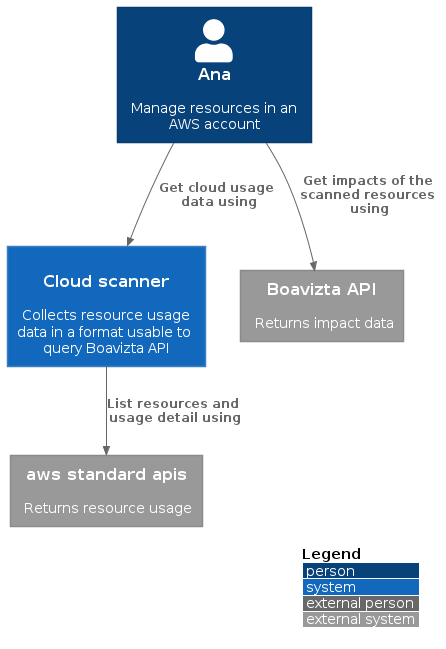
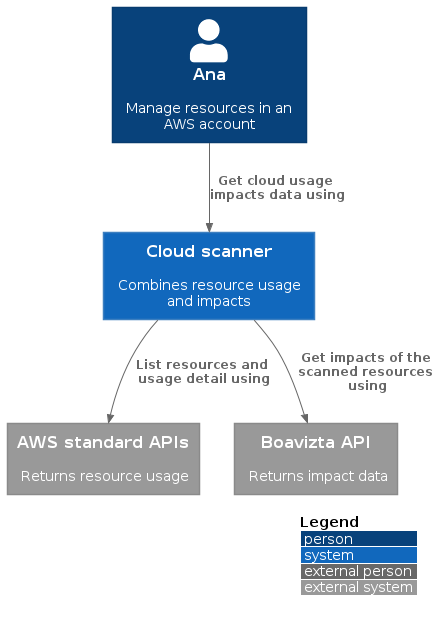
docs: update diagram

Changed region(s): [[0.0, 0.0, 0.9662, 0.8314], [0.527, 0.6467, 0.9369, 0.9854], [0.6441, 0.6159, 0.6734, 0.6467]]

diff --git a/README.md b/README.md
@@ -2,7 +2,7 @@
 
 Collect cloud usage data, so that it can be combined with impact data of Boavizta API.
 
-![Get a scan o](docs/out/../../out/docs/cloud-scanner-system-in-context/cloud-scanner-system-in-context.png)
+![Scanner in context](docs/out/../../out/docs/cloud-scanner-system-in-context/cloud-scanner-system-in-context.png)
 
 ## Usage
 
